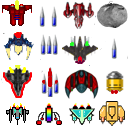
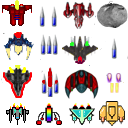
gun upgrade

Changed region(s): [[0.8125, 0.5312, 0.9688, 0.75]]

diff --git a/src/ser/main/Bullet3.java b/src/ser/main/Bullet3.java
@@ -1,0 +1,61 @@
+package ser.main;
+
+import java.awt.Graphics;
+import java.awt.Rectangle;
+
+import ser.main.interfaces.EntityA;
+
+public class Bullet3 extends GameObject implements EntityA {
+
+	private Texture tex;
+	private int level;
+
+	public Bullet3(double x, double y, Texture tex, Game game) {
+		super(x, y);
+		this.tex = tex;
+		level = game.getLevel();
+	}
+
+	// updating all variables
+	// speed of bulled increases with level
+	public void tick() {
+		if (level >= 1 && level <= 3) {
+			y -= 6;
+			x -= 1.5;
+		} else if (level > 3 && level <= 6) {
+			y -= 9;
+			x -= 1.5;
+		} else {
+			y -= 12;
+			x -= 1.5;
+		}
+	}
+
+	// controlling bullet pic and level
+	public void render(Graphics g) {
+		if (level >= 1 && level <= 3) {
+			g.drawImage(tex.missile[0], (int) x, (int) y, null);
+		} else if (level > 3 && level <= 5) {
+			g.drawImage(tex.missile[1], (int) x, (int) y, null);
+		} else if (level > 5 && level <= 7) {
+			g.drawImage(tex.missile[2], (int) x, (int) y, null);
+		} else if (level > 7 && level <= 9){
+			g.drawImage(tex.missile[3], (int) x, (int) y, null);
+		}else{
+			g.drawImage(tex.missile[4], (int) x, (int) y, null);
+		}
+	}
+
+	public Rectangle getBounds() {
+		return new Rectangle((int) x, (int) y, 32, 32);
+	}
+
+	public double getY() {
+		return y;
+	}
+
+	public double getX() {
+		return x;
+	}
+
+}

diff --git a/src/ser/main/Bullet1.java b/src/ser/main/Bullet1.java
@@ -1,0 +1,58 @@
+package ser.main;
+
+import java.awt.Graphics;
+import java.awt.Rectangle;
+
+import ser.main.interfaces.EntityA;
+
+public class Bullet1 extends GameObject implements EntityA {
+
+	private Texture tex;
+	private int level;
+
+	public Bullet1(double x, double y, Texture tex, Game game) {
+		super(x, y);
+		this.tex = tex;
+		level = game.getLevel();
+	}
+
+	// updating all variables
+	// speed of bulled increases with level
+	public void tick() {
+		if (level >= 1 && level <= 3) {
+			y -= 6;
+		} else if (level > 3 && level <= 6) {
+			y -= 9;
+		} else {
+			y -= 12;
+		}
+	}
+
+	// controlling bullet pic and level
+	public void render(Graphics g) {
+		if (level >= 1 && level <= 3) {
+			g.drawImage(tex.missile[0], (int) x, (int) y, null);
+		} else if (level > 3 && level <= 5) {
+			g.drawImage(tex.missile[1], (int) x, (int) y, null);
+		} else if (level > 5 && level <= 7) {
+			g.drawImage(tex.missile[2], (int) x, (int) y, null);
+		} else if (level > 7 && level <= 9){
+			g.drawImage(tex.missile[3], (int) x, (int) y, null);
+		}else{
+			g.drawImage(tex.missile[4], (int) x, (int) y, null);
+		}
+	}
+
+	public Rectangle getBounds() {
+		return new Rectangle((int) x, (int) y, 32, 32);
+	}
+
+	public double getY() {
+		return y;
+	}
+
+	public double getX() {
+		return x;
+	}
+
+}

diff --git a/src/ser/main/Game.java b/src/ser/main/Game.java
@@ -371,7 +371,21 @@ public class Game extends Canvas implements Runnable {
 			} 
 			
 			else if (key == KeyEvent.VK_SPACE && !is_shooting) {
-				c.addEntity(new Bullet(p.getX(), p.getY(), tex, this));	//Creating bullet for each space
+				if (level >=1 && level <= 3)
+				{
+				c.addEntity(new Bullet1(p.getX(), p.getY(), tex, this));	//Creating bullet for each space
+				}
+				else if (level > 3 && level <= 8)
+				{
+				c.addEntity(new Bullet2(p.getX(), p.getY(), tex, this));	//Creating bullet for each space
+				c.addEntity(new Bullet3(p.getX(), p.getY(), tex, this));	//Creating bullet for each space
+				}
+				else
+				{
+				c.addEntity(new Bullet1(p.getX(), p.getY(), tex, this));	//Creating bullet for each space
+				c.addEntity(new Bullet2(p.getX(), p.getY(), tex, this));	//Creating bullet for each space
+				c.addEntity(new Bullet3(p.getX(), p.getY(), tex, this));	//Creating bullet for each space
+				}
 				sound.playGunSound();			//Every space will produce gun sound
 				is_shooting = true;
 			} else if (key == KeyEvent.VK_ESCAPE) {

diff --git a/src/ser/main/Bullet2.java b/src/ser/main/Bullet2.java
@@ -5,12 +5,12 @@ import java.awt.Rectangle;
 
 import ser.main.interfaces.EntityA;
 
-public class Bullet extends GameObject implements EntityA {
+public class Bullet2 extends GameObject implements EntityA {
 
 	private Texture tex;
 	private int level;
 
-	public Bullet(double x, double y, Texture tex, Game game) {
+	public Bullet2(double x, double y, Texture tex, Game game) {
 		super(x, y);
 		this.tex = tex;
 		level = game.getLevel();
@@ -21,10 +21,13 @@ public class Bullet extends GameObject implements EntityA {
 	public void tick() {
 		if (level >= 1 && level <= 3) {
 			y -= 6;
+			x += 1.5;
 		} else if (level > 3 && level <= 6) {
 			y -= 9;
+			x += 1.5;
 		} else {
 			y -= 12;
+			x += 1.5;
 		}
 	}
 
